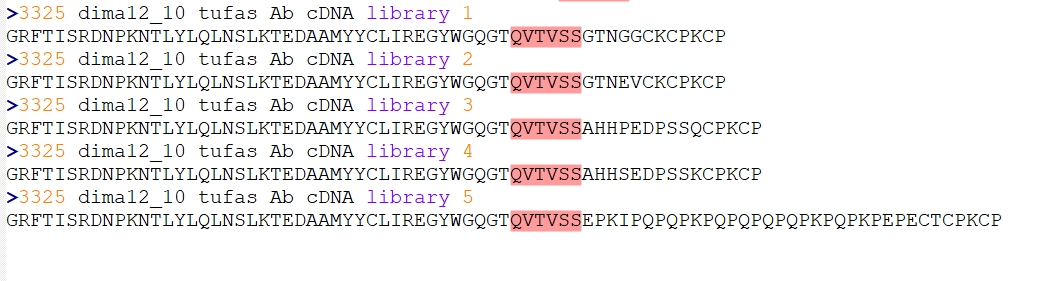
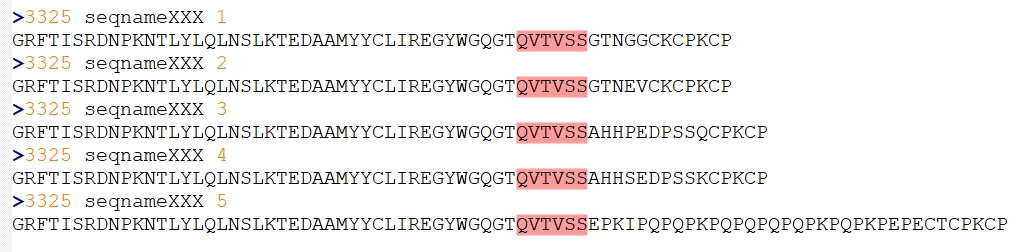
change name of example seq

Changed region(s): [[0.0, 0.0, 1.0, 0.9444], [0.5182, 0.0, 0.6096, 0.0278]]

diff --git a/readme.md b/readme.md
@@ -53,7 +53,7 @@ Directory:
 Example of processed sequence(pattern=QVTVSS):
 - before:
 
-`>3325 dima12_10 tufas Ab cDNA library`
+`>3325 seqnameXXX`
 
 `GRFTISRDNPKNTLYLQLNSLKTEDAAMYYCLIREGYWGQGT`**QVTVSS**`AAAESW`
 - after:
